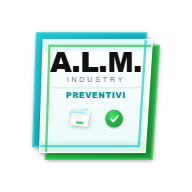
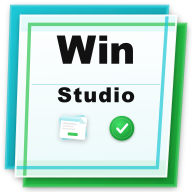
feat(rilievo): sub-menu tipo telaio (scorrevole/battente) + nuova icona app
- CanvasVano: menuOpen → menuStep ('componenti'|'telaio_tipo'); click Telaio apre step con scelta Scorrevole/Battente + back button
- Icona app aggiornata con nuovo favicon.svg; rigenerati tutti i PNG (96, 180, 192, 512) e favicon.ico
- scripts/generate-icons.mjs aggiornato per leggere favicon.svg e generare tutti i file necessari

diff --git a/components/rilievo/CanvasVano.tsx b/components/rilievo/CanvasVano.tsx
@@ -67,7 +67,7 @@ export default function CanvasVano({ vano }: Props) {
   const [zoom, setZoom] = useState(1)
   const [pan,  setPan]  = useState({ x: 0, y: 0 })
   const [editing, setEditing]   = useState<EditState | null>(null)
-  const [menuOpen, setMenuOpen] = useState(false)
+  const [menuStep, setMenuStep] = useState<null | 'componenti' | 'telaio_tipo'>(null)
 
   const panRef     = useRef({ x: 0, y: 0 })
   const dragRef    = useRef<{ sx: number; sy: number; px: number; py: number } | null>(null)
@@ -389,7 +389,7 @@ export default function CanvasVano({ vano }: Props) {
                 onMouseDown={(e) => e.stopPropagation()}
                 onClick={(e) => {
                   e.stopPropagation()
-                  if (!wasDragRef.current) setMenuOpen(true)
+                  if (!wasDragRef.current) setMenuStep('componenti')
                 }}
               >
                 <circle cx={cx} cy={cy} r={r} fill="rgba(13,148,136,0.13)" stroke="#0d9488" strokeWidth={s(2)} />
@@ -431,12 +431,12 @@ export default function CanvasVano({ vano }: Props) {
       )}
 
       {/* ── menu componenti (bottom sheet) ── */}
-      {menuOpen && (
+      {menuStep !== null && (
         <>
           {/* backdrop */}
           <div
             className="absolute inset-0 z-30 bg-black/20"
-            onClick={() => setMenuOpen(false)}
+            onClick={() => setMenuStep(null)}
           />
           {/* sheet */}
           <div className="absolute inset-x-0 bottom-0 z-40 bg-white rounded-t-2xl shadow-2xl">
@@ -444,29 +444,100 @@ export default function CanvasVano({ vano }: Props) {
             <div className="flex justify-center pt-3 pb-1">
               <div className="w-10 h-1 bg-gray-200 rounded-full" />
             </div>
-            <div className="px-5 pb-6 pt-2">
-              <p className="text-sm font-semibold text-gray-700 mb-4">Aggiungi componente</p>
-              <div className="grid grid-cols-3 gap-3">
-                {COMPONENTI.map(({ id, label, desc }) => (
-                  <button
-                    key={id}
-                    onClick={() => {
-                      setMenuOpen(false)
-                      // TODO: aprire schermata configurazione per `id`
-                    }}
-                    className="flex flex-col items-center gap-2 px-2 py-3 rounded-2xl border border-gray-200 bg-gray-50 hover:bg-teal-50 hover:border-teal-300 active:scale-95 transition-all"
-                  >
-                    <ComponenteIcon id={id} />
-                    <span className="text-[11px] font-semibold text-gray-700 text-center leading-tight">
-                      {label}
-                    </span>
-                    <span className="text-[10px] text-gray-400 text-center leading-tight hidden sm:block">
-                      {desc}
-                    </span>
-                  </button>
-                ))}
+
+            {/* ── step: lista componenti ── */}
+            {menuStep === 'componenti' && (
+              <div className="px-5 pb-6 pt-2">
+                <p className="text-sm font-semibold text-gray-700 mb-4">Aggiungi componente</p>
+                <div className="grid grid-cols-3 gap-3">
+                  {COMPONENTI.map(({ id, label, desc }) => (
+                    <button
+                      key={id}
+                      onClick={() => {
+                        if (id === 'telaio') {
+                          setMenuStep('telaio_tipo')
+                        } else {
+                          setMenuStep(null)
+                          // TODO: aprire schermata configurazione per `id`
+                        }
+                      }}
+                      className="flex flex-col items-center gap-2 px-2 py-3 rounded-2xl border border-gray-200 bg-gray-50 hover:bg-teal-50 hover:border-teal-300 active:scale-95 transition-all"
+                    >
+                      <ComponenteIcon id={id} />
+                      <span className="text-[11px] font-semibold text-gray-700 text-center leading-tight">
+                        {label}
+                      </span>
+                      <span className="text-[10px] text-gray-400 text-center leading-tight hidden sm:block">
+                        {desc}
+                      </span>
+                    </button>
+                  ))}
+                </div>
               </div>
-            </div>
+            )}
+
+            {/* ── step: tipo telaio ── */}
+            {menuStep === 'telaio_tipo' && (
+              <div className="px-5 pb-6 pt-2">
+                <div className="flex items-center gap-2 mb-4">
+                  <button
+                    onClick={() => setMenuStep('componenti')}
+                    className="p-1 rounded-lg hover:bg-gray-100 text-gray-500"
+                  >
+                    <svg viewBox="0 0 20 20" fill="currentColor" className="w-5 h-5">
+                      <path fillRule="evenodd" d="M11.78 5.22a.75.75 0 0 1 0 1.06L8.06 10l3.72 3.72a.75.75 0 1 1-1.06 1.06l-4.25-4.25a.75.75 0 0 1 0-1.06l4.25-4.25a.75.75 0 0 1 1.06 0Z" clipRule="evenodd" />
+                    </svg>
+                  </button>
+                  <p className="text-sm font-semibold text-gray-700">Telaio — tipo apertura</p>
+                </div>
+                <div className="grid grid-cols-2 gap-4">
+                  <button
+                    onClick={() => {
+                      setMenuStep(null)
+                      // TODO: configura telaio scorrevole
+                    }}
+                    className="flex flex-col items-center gap-3 px-4 py-5 rounded-2xl border border-gray-200 bg-gray-50 hover:bg-teal-50 hover:border-teal-300 active:scale-95 transition-all"
+                  >
+                    <svg viewBox="0 0 48 48" className="w-12 h-12">
+                      {/* cornice */}
+                      <rect x="3" y="3" width="42" height="42" rx="3" fill="none" stroke="#0d9488" strokeWidth="3.5" />
+                      {/* due ante scorrevoli */}
+                      <rect x="6"  y="8" width="20" height="32" rx="1.5" fill="none" stroke="#0d9488" strokeWidth="2.5" />
+                      <rect x="22" y="8" width="20" height="32" rx="1.5" fill="none" stroke="#0d9488" strokeWidth="2.5" />
+                      {/* frecce opposte */}
+                      <line x1="10" y1="24" x2="17" y2="24" stroke="#0d9488" strokeWidth="2" strokeLinecap="round" />
+                      <polyline points="14,20 18,24 14,28" fill="none" stroke="#0d9488" strokeWidth="2" strokeLinecap="round" strokeLinejoin="round" />
+                      <line x1="38" y1="24" x2="31" y2="24" stroke="#0d9488" strokeWidth="2" strokeLinecap="round" />
+                      <polyline points="34,20 30,24 34,28" fill="none" stroke="#0d9488" strokeWidth="2" strokeLinecap="round" strokeLinejoin="round" />
+                    </svg>
+                    <span className="text-sm font-semibold text-gray-800">Scorrevole</span>
+                  </button>
+
+                  <button
+                    onClick={() => {
+                      setMenuStep(null)
+                      // TODO: configura telaio battente
+                    }}
+                    className="flex flex-col items-center gap-3 px-4 py-5 rounded-2xl border border-gray-200 bg-gray-50 hover:bg-teal-50 hover:border-teal-300 active:scale-95 transition-all"
+                  >
+                    <svg viewBox="0 0 48 48" className="w-12 h-12">
+                      {/* cornice */}
+                      <rect x="3" y="3" width="42" height="42" rx="3" fill="none" stroke="#0d9488" strokeWidth="3.5" />
+                      {/* anta */}
+                      <rect x="9" y="8" width="30" height="32" rx="1.5" fill="none" stroke="#0d9488" strokeWidth="2.5" />
+                      {/* arco apertura */}
+                      <path d="M 39 8 A 30 30 0 0 0 9 38" fill="none" stroke="#0d9488" strokeWidth="1.5" strokeDasharray="3 2" />
+                      {/* cerniere sx */}
+                      <rect x="9" y="12" width="4" height="6" rx="1" fill="#0d9488" />
+                      <rect x="9" y="30" width="4" height="6" rx="1" fill="#0d9488" />
+                      {/* maniglia dx */}
+                      <rect x="35" y="22" width="4" height="4" rx="2" fill="#0d9488" />
+                    </svg>
+                    <span className="text-sm font-semibold text-gray-800">Battente</span>
+                  </button>
+                </div>
+              </div>
+            )}
           </div>
         </>
       )}
